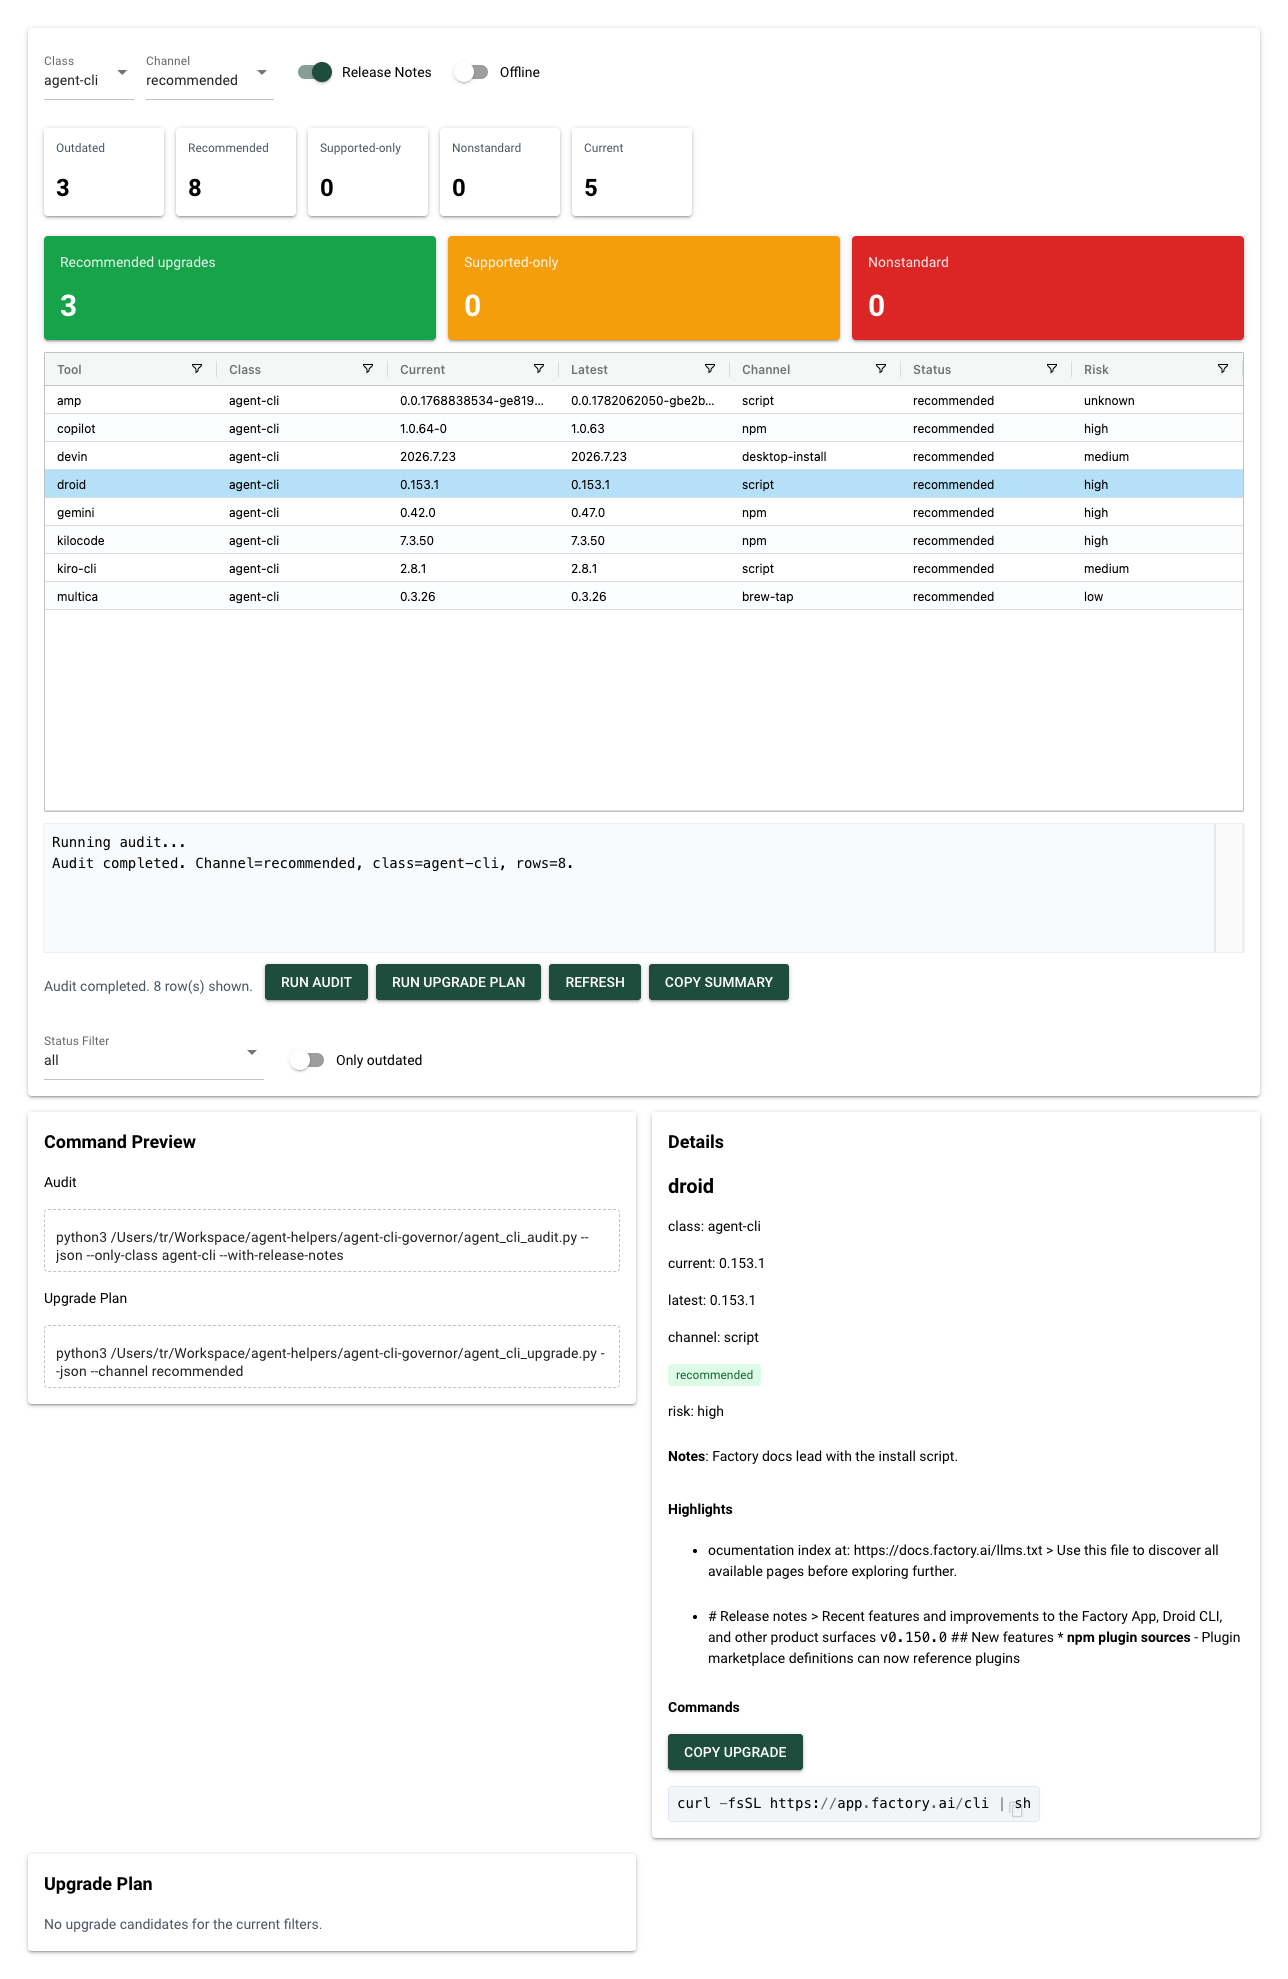
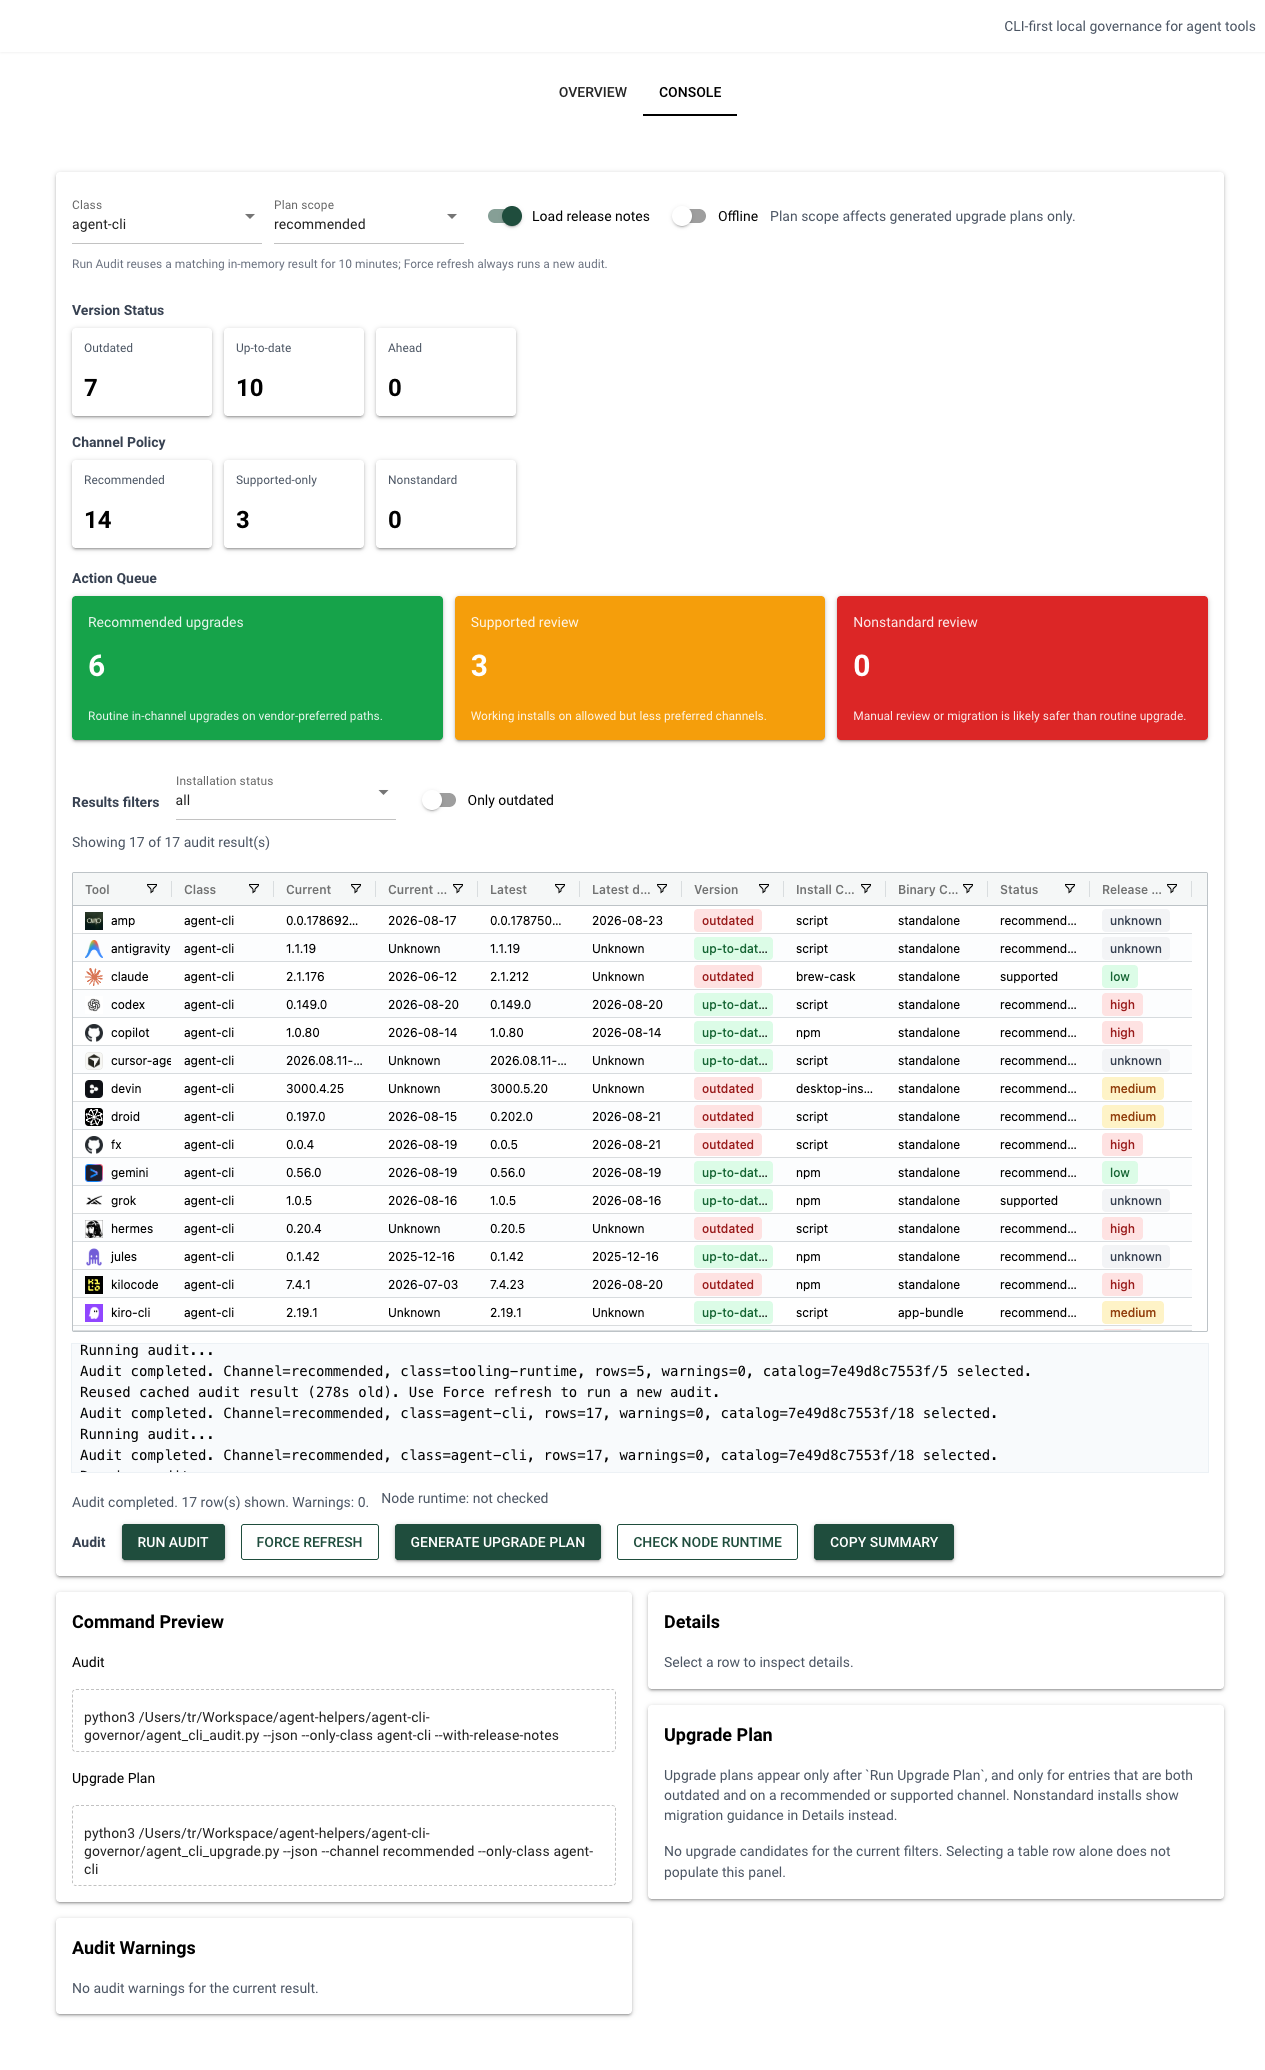
docs: refresh GUI audit guidance

diff --git a/README.md b/README.md
@@ -114,12 +114,15 @@ python3 gui.py --reload
 The GUI entrypoint is reload-safe for NiceGUI multiprocessing, so use the
 command above instead of wrapping `ui.run()` behind a plain `if __name__ == "__main__":`
 pattern in downstream forks.
+Reload watches only this project directory's `*.py` and `*.json` files, even when
+the launcher is invoked from another working directory.
 
 The GUI is intentionally a thin shell over the existing CLI tools:
 
 - `Overview` explains the upgrade model and shows static example data
 - `Console` runs a local audit and generates a dry-run upgrade plan; it never executes upgrades
 - `Load release notes` is enabled by default for online GUI audits so the Release Risk column can show available changelog evidence. Disable it for a faster version/channel-only audit; offline mode never fetches notes.
+- The audit table shows a product logo, current/latest versions, and their upstream publication dates. Dates appear only when an exact GitHub release tag or npm version timestamp matches; `Unknown` means no reliable upstream date was available, never the local installation time. A compact evidence banner counts tools affected by failed upstream lookups, and hovering an `Unknown` date, latest version, or release-risk value explains whether the lookup failed or no exact upstream record matched.
 - `Generate Upgrade Plan` reuses the latest matching audit result when possible, avoiding a second full network audit
 - The selected CLI's `Details` panel can load release notes on demand, so changelog retrieval does not block the main audit
 - `Plan scope` controls generated upgrade plans; `Installation status` and `Only outdated` are results-table filters, while the summary cards remain an unfiltered audit baseline
@@ -129,7 +132,7 @@ The GUI is intentionally a thin shell over the existing CLI tools:
 - local version and package-manager probes run in isolated process groups, so a timed-out launcher cannot leave a native child process behind
 - Python HTTP lookups use the default `urllib` proxy resolution: `HTTP_PROXY`/`HTTPS_PROXY` take precedence, with macOS system proxy settings used when those variables are absent; that resolved proxy is also passed to `npm` and Homebrew lookups
 - long-running subprocesses have a bounded timeout and are stopped on timeout rather than left running in the background
-- the first version does not execute real upgrades
+- the GUI never executes upgrades; explicit CLI `--apply` remains separately guarded and requires user authorization
 
 Run it with `python3 gui.py`. If port `8080` is already in use, choose another port, for example `python3 gui.py --port 8081`.
 
@@ -161,6 +164,10 @@ The audit output distinguishes:
   A suggested migration path when the current install channel is no longer preferred
 - `release_risk`
   A lightweight summary of upgrade-time change risk inferred from the latest release notes. It signals how risky or behavior-changing the newest upstream release may be to adopt, not the risk of staying on the current version.
+- `audit_metadata`
+  Catalog entry and selection counts plus a catalog revision, used to diagnose which policy catalog produced a GUI or JSON audit.
+- `logo_url`, `current_version_published_at`, `latest_version_published_at`
+  Optional presentation evidence for the product logo and exact upstream publication dates. Missing publication dates are intentionally represented as unavailable rather than as local installation times.
 
 ## Notes
 
@@ -182,7 +189,7 @@ The audit output distinguishes:
 - The audit output separates the selected `update_command` from `migration_command`. `upgrade_guidance` explains which action is selected, how it affects installation ownership, and when an alternative is only for review or troubleshooting.
 - `agent_cli_upgrade.py` only upgrades entries that are both outdated and on a recognized supported or recommended channel.
 - npm-channel plans run through the validated Node runtime provider: `mise` uses `mise exec node -- npm`, while `nvm`, `fnm`, and `asdf` use a path-bound npm command with the validated Node bin directory first in `PATH`. A failed or unsupported runtime check leaves dry runs visible but blocks `--apply` for plans containing npm-channel upgrades.
-- 9Router source-checkout detection reads a compatible local launcher and reports the existing local Git relation to its configured upstream ref. It never fetches, rebases, or modifies the checkout; a stale upstream ref is explicitly reported.
+- Source-linked catalog entries, currently including 9Router and Claude Code Router, can read a compatible local launcher and report the existing local Git relation to their configured upstream ref. They never fetch, rebase, or modify the checkout; a stale upstream ref is explicitly reported.
 - Missing catalog entries are omitted from the default audit and listed only with `--all`.
 - `agent_cli_upgrade.py --offline` reuses offline audit mode for faster but less complete upgrade planning.
 - `agent_cli_upgrade.py --only-class agent-cli` limits planning to the same class boundary used by the audit.

diff --git a/README.zh-CN.md b/README.zh-CN.md
@@ -112,12 +112,14 @@ python3 gui.py --reload
 ```
 
 GUI 入口已针对 NiceGUI 多进程热重载处理；下游 fork 应使用以上命令，而不要把 `ui.run()` 放在普通的 `if __name__ == "__main__":` 保护中。
+即使从其他工作目录调用启动器，热重载也只监视本项目目录内的 `*.py` 和 `*.json` 文件。
 
 GUI 有意保持为既有 CLI 工具上的薄壳：
 
 - `Overview` 说明升级模型并展示静态示例数据
 - `Console` 运行本地审计并生成 dry-run 升级计划，绝不执行升级
 - 在线 GUI 审计默认启用 `Load release notes`，使 Release Risk 列在有可用 changelog 证据时显示风险。若只需更快地检查版本和渠道，可关闭该选项；离线模式不会获取发布说明。
+- 审计表会显示产品 Logo、当前/最新版本及其上游发布时间。日期仅在 GitHub release tag 或 npm 版本时间戳能精确匹配时显示；`Unknown` 表示没有可靠上游日期，绝不表示本机安装时间。紧凑的证据横幅会统计受上游查询失败影响的工具数；悬停 `Unknown` 日期、Latest 或 Release Risk 可区分“查询失败”和“没有精确上游记录”。
 - `Generate Upgrade Plan` 会在可能时复用最近一次匹配的审计结果，避免第二次完整网络审计
 - 选定 CLI 的 `Details` 面板可按需加载发布说明，避免 changelog 获取阻塞主审计
 - `Plan scope` 仅控制生成的升级计划；`Installation status` 和 `Only outdated` 是结果表过滤器，统计卡片仍以未过滤审计结果为基线
@@ -127,7 +129,7 @@ GUI 有意保持为既有 CLI 工具上的薄壳：
 - 本地版本和包管理器探测在隔离进程组中运行，超时的启动器不会遗留本机子进程
 - Python HTTP 查询采用默认 `urllib` 代理解析：`HTTP_PROXY`/`HTTPS_PROXY` 优先；未设置时使用 macOS 系统代理，并将解析后的代理传递给 `npm` 和 Homebrew 查询
 - 长时间运行的子进程有明确超时，并会被终止而非留在后台
-- 第一版不执行真实升级
+- GUI 绝不执行升级；显式 CLI `--apply` 仍由独立保护机制约束，并且必须获得用户授权
 
 运行 `python3 gui.py` 即可。如果 `8080` 已被占用，可选择其他端口，例如 `python3 gui.py --port 8081`。
 
@@ -159,6 +161,10 @@ GUI 有意保持为既有 CLI 工具上的薄壳：
   当前安装渠道不再被优先建议时的迁移路径
 - `release_risk`
   从最新发布说明推断的轻量升级期变更风险摘要。它表示采用最新上游版本可能带来的行为变化或升级风险，而不是停留在当前版本的风险。
+- `audit_metadata`
+  目录条目数、已选条目数与目录 revision，可用于诊断 GUI 或 JSON 审计实际使用的策略目录。
+- `logo_url`、`current_version_published_at`、`latest_version_published_at`
+  产品 Logo 与精确上游发布时间的可选展示证据。缺失发布日期会明确保持为不可用，绝不替换为本机安装时间。
 
 ## 说明
 
@@ -180,7 +186,7 @@ GUI 有意保持为既有 CLI 工具上的薄壳：
 - 审计输出将选定的 `update_command` 与 `migration_command` 分开。`upgrade_guidance` 说明所选操作、它对安装所有权的影响，以及替代方案何时仅适用于审查或排障。
 - `agent_cli_upgrade.py` 只升级既过期、又处于已识别 supported 或 recommended 渠道的条目。
 - npm 渠道计划会通过已验证的 Node 运行时执行：`mise` 使用 `mise exec node -- npm`；`nvm`、`fnm`、`asdf` 使用将已验证 Node bin 目录置于 `PATH` 首位的 path-bound npm 命令。运行时检查失败或不受支持时，dry-run 仍会展示计划，但任何含 npm 渠道升级的 `--apply` 都会被阻止。
-- 9Router 的 source checkout 检测会从兼容的本地 launcher 读取 checkout，并报告其与已配置 upstream ref 的本地 Git 关系。它绝不 fetch、rebase 或修改 checkout；若本地 upstream ref 过期，会明确报告。
+- source-linked 目录条目（当前包括 9Router 与 Claude Code Router）会从兼容的本地 launcher 读取 checkout，并报告其与已配置 upstream ref 的本地 Git 关系。它们绝不 fetch、rebase 或修改 checkout；若本地 upstream ref 过期，会明确报告。
 - 默认审计会省略未在 PATH 中发现的目录条目；使用 `--all` 才会列出它们。
 - `agent_cli_upgrade.py --offline` 复用离线审计模式，速度更快但计划信息较不完整。
 - `agent_cli_upgrade.py --only-class agent-cli` 将计划限制在与审计相同的类别边界。

diff --git a/CHANGELOG.md b/CHANGELOG.md
@@ -8,6 +8,9 @@ The format is intentionally simple and human-maintained.
 
 ### Added
 
+- GUI audit rows now show product logos and exact upstream publication dates for current and latest versions when GitHub or npm evidence is available; unavailable evidence is shown as `Unknown`
+- GUI evidence degradation is now explicit: a compact banner counts tools affected by failed upstream lookups, and `Unknown` latest/date/risk cells explain whether the lookup failed or no exact upstream record matched
+- GUI documentation and screenshots now reflect product logos, publication-date evidence, and the Force refresh audit workflow
 - `agent-operations` is a separate catalog class for agent orchestration, routing, workspace, and observability products; Multica, Claude Code Router, Orca, and CodexBar are tracked in this class
 - Google Jules CLI, Agent Browser, and OpenSpec are now tracked from their installed npm distributions
 - Linked source checkouts can report their local Git relation through a resolved executable path without fetching or modifying the checkout
@@ -21,6 +24,8 @@ The format is intentionally simple and human-maintained.
 
 ### Changed
 
+- NiceGUI `--reload` now watches only the project directory, preventing unrelated user-home changes from repeatedly restarting the GUI
+- Optional wrapper, launcher, and private-Harness config reads now tolerate invalid UTF-8 instead of dropping an audit entry or breaking the Node runtime JSON probe
 - 9Router and Nowledge Mem CLI are classified as `agent-operations`: they operate an agent routing or knowledge-management plane, rather than providing a protocol or execution runtime
 - App-bundled CLIs can fall back to the bundle version when their command does not expose a parseable version
 - npm upgrade commands now run through `mise exec node -- ...`; a failed runtime drift check warns during dry runs and blocks npm-channel `--apply` operations without modifying the environment
@@ -31,6 +36,7 @@ The format is intentionally simple and human-maintained.
 - Overview now explains the three tool roles plus runtime-safety and private-Harness boundaries, matching the current governance model
 - JSON HTTP lookups replace malformed UTF-8 bytes before parsing, preventing one malformed upstream response from emitting repeated item warnings
 - Class filtering now happens before probes begin, preventing warnings from unrelated tools and exposing catalog revision metadata for audit diagnostics
+- Hermes latest-version detection now extracts the product version from release names when release tags carry a separate build identifier
 
 ## [0.2.0] - 2026-08-08
 
